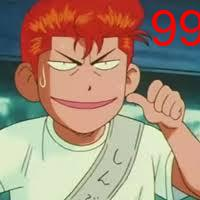
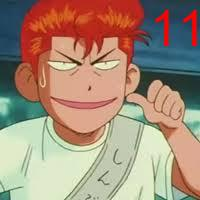
chapter01 commit

Changed region(s): [[0.72, 0.0, 1.0, 0.24]]

diff --git a/chapter01/addCount.py b/chapter01/addCount.py
@@ -1,11 +1,6 @@
 # 输入图片，在图片上加上数字然后输出
 from PIL import Image, ImageFont, ImageDraw
 
-if __name__ == '__main__':
-
-    print("success");
-
-
 def addcount():
     outputPath = r"D:\\workspace\\pycharm\\show-me-the-code\\show-me-the-code\\chapter01\\images\\";
     fontPath = r"D:\\workspace\\pycharm\\show-me-the-code\\show-me-the-code\\chapter01\\images\\Font\\";
@@ -19,10 +14,10 @@ def addcount():
     print(fontSize);
     # 增加文字
     fontobj = ImageFont.truetype(font = fontPath + "arial.ttf", size = fontSize, index = 0, encoding = '')
-    # fontobj = ImageFont.truetype(font=fontPath + "arial.ttc", size=fontSize, index=0, encoding='',
-    #                              filename=None)  # 实例字体对象
-    draw.text((image.size[0] - fontSize, 0), text="99", fill=(255, 0, 0), font=fontobj,
+    draw.text((image.size[0] - fontSize, 0), text="11", fill=(255, 0, 0), font=fontobj,
               anchor=None)  # 用draw对象的text()方法添加文字
     image.save(outputPath + outFile)  # 保存图片
+    return 0;
 
-addcount();
+if __name__ == '__main__':
+    addcount();

diff --git a/chapter02/genList.py b/chapter02/genList.py
@@ -1,0 +1,21 @@
+#!/usr/bin/env python
+#coding: utf-8
+import string, random
+
+#激活码中的字符和数字
+field = string.letters + string.digits
+
+#获得四个字母和数字的随机组合
+def getRandom():
+    return "".join(random.sample(field,4))
+
+#生成的每个激活码中有几组
+def concatenate(group):
+    return "-".join([getRandom() for i in range(group)])
+
+#生成n组激活码
+def generate(n):
+    return [concatenate(4) for i in range(n)]
+
+if __name__ == '__main__':
+    print (generate(200));

diff --git a/questions.md b/questions.md
@@ -1,0 +1,3 @@
+chapter01:
+Q:在main函数中调用本地的方法竟然报错?python3的问题?
+A:fuck , main函数要放到最后
